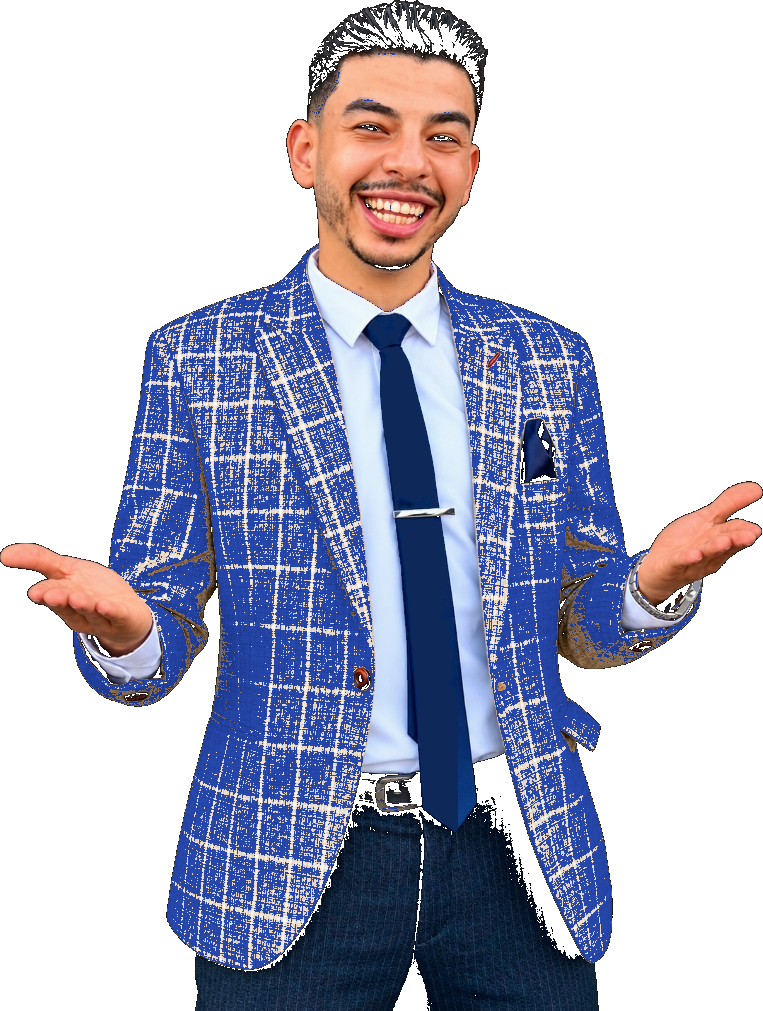
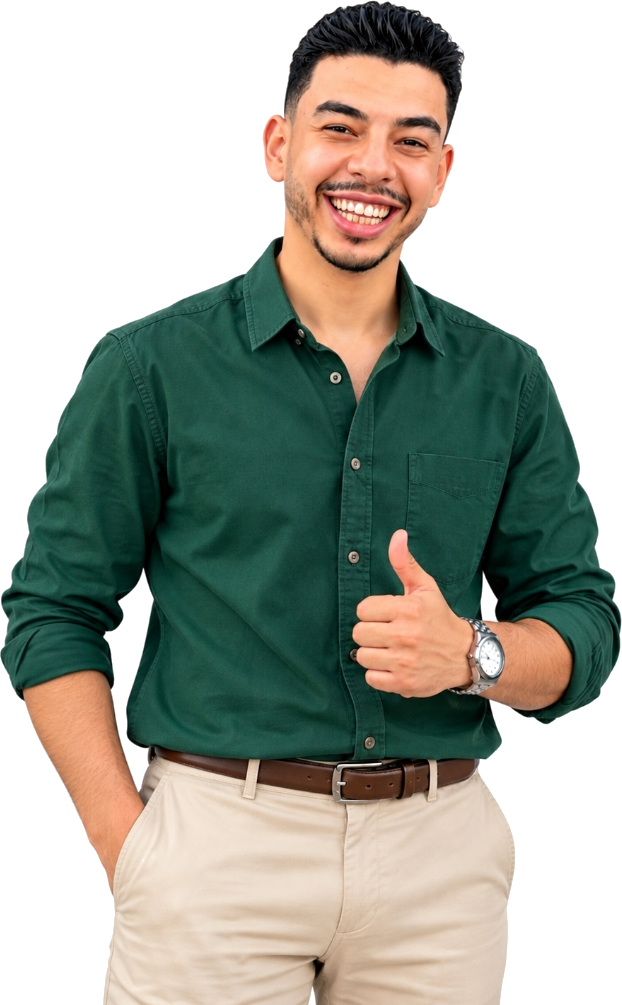
feat: apply authentic studio cutout photo of Mr. Omar to Card 1

diff --git a/apps/web/src/components/home/FeaturesSection.tsx b/apps/web/src/components/home/FeaturesSection.tsx
@@ -36,7 +36,7 @@ export default function FeaturesSection() {
       id: 1,
       title: t('features.lecturesTitle', 'محاضرات فيديو عالية الجودة'),
       description: t('features.lecturesDesc', 'شرح تفصيلي للمنهج مع سلايدات توضيحية وأمثلة واقعية لبناء فهم عميق.'),
-      image: '/assets/features/feature-3-cutout.png?v=20261001_v50'
+      image: '/assets/features/feature-3-cutout.png?v=20261001_v60'
     },
     {
       id: 2,
